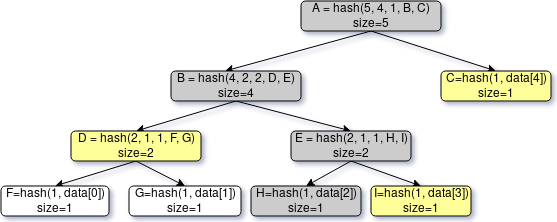
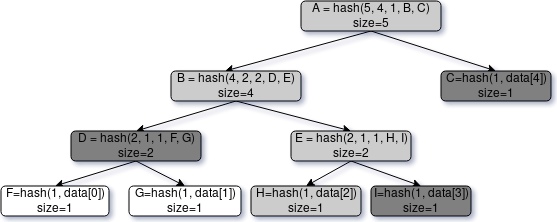
fix coloring

Changed region(s): [[0.1221, 0.5676, 0.3662, 0.7297], [0.7935, 0.2973, 1.0, 0.4595], [0.6409, 0.8378, 0.8546, 0.973]]

diff --git a/src/yellowpaper/chapters/03-implementation/private-chain.tex b/src/yellowpaper/chapters/03-implementation/private-chain.tex
@@ -97,7 +97,7 @@ constant fee and a linear price coefficient accordingly.
 From the description above we can conclude that an educator may have an incentive to lie about the size of the tree. To achieve the ability to prove the number of transactions in the Merkle tree,
 we will store the size of the subtree with the hash in each node (as shown in \ref{fig:merkle-tree}). So every transaction disclosure will also verify the size. Suppose that an Educator published a header hash with a wrong size, then every student which is collecting his own fair CV will see that an Educator deceives him, and moreover not a single data-disclosure deal would proceed.
 
-Let's look at the example from the figure \ref{fig:merkle-tree}. Suppose we need to disclose $data[2]$. The path to the node H colored in gray. The proof nodes colored in yellow. So the size of the tree is $$C.size+D.size+I.size+1=5$$
+Let's look at the example from the figure \ref{fig:merkle-tree}. Suppose we need to disclose $data[2]$. The path to the node H is $A \rightarrow B \rightarrow E \rightarrow H$. The proof nodes are $C$, $D$, and $I$. So the size of the tree is $$C.size+D.size+I.size+1=5$$
 
 We also consider a possibility for small educators to form pools and release
 blocks together in order to reduce costs for each individual educator. See
